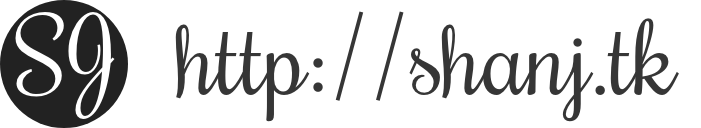
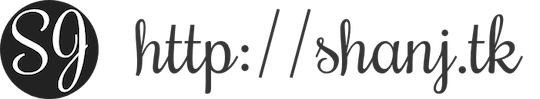
Add footer image

diff --git a/_includes/footer.html b/_includes/footer.html
@@ -10,7 +10,7 @@
                      | Powered by <a href="https://jekyllrb.com">Jekyll</a>
                     <br>
                     <a href="/img/icon_wechat.png">
-                        <img border="0" width="150" height="40">
+                        <img border="0" >
                     </a>
                 </p>
             </div>
